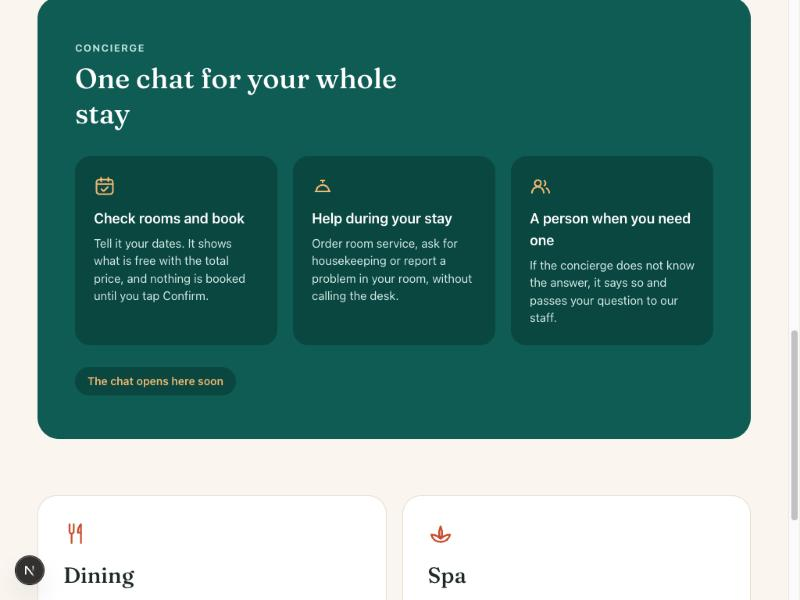
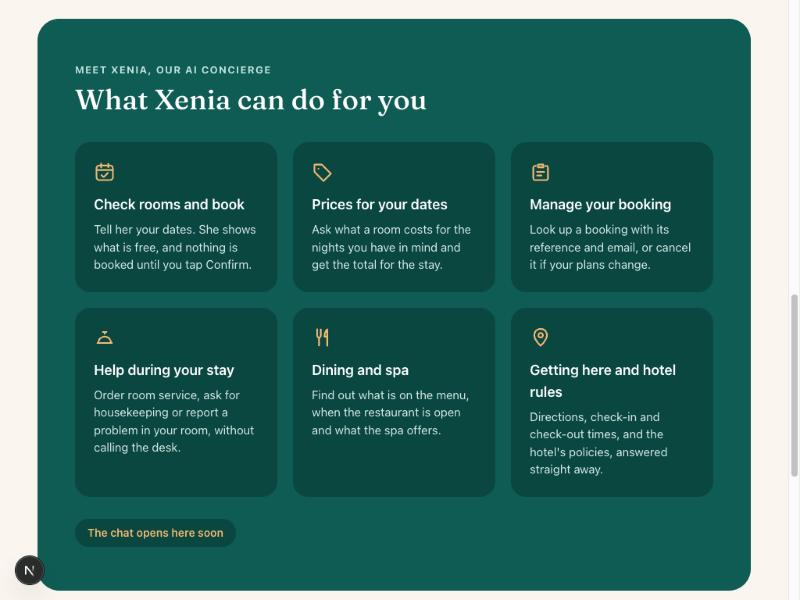
feat: remove prices from the site and list what Xenia can do (web-0005)

diff --git a/src/app/page.tsx b/src/app/page.tsx
@@ -5,7 +5,6 @@ const ROOMS = [
     name: "Garden Room",
     detail: "Queen bed and a private terrace among the palms.",
     tags: ["Sleeps 2", "Terrace", "Breakfast"],
-    price: 85,
     image: "/images/room-garden.jpg",
     alt: "White tables and chairs on a terrace in a tropical garden",
   },
@@ -13,7 +12,6 @@ const ROOMS = [
     name: "Sea View Deluxe",
     detail: "King bed and a balcony that looks over the bay.",
     tags: ["Sleeps 2", "Balcony", "Breakfast"],
-    price: 120,
     image: "/images/room-seaview.jpg",
     alt: "Open balcony doors looking out over the sea",
   },
@@ -21,7 +19,6 @@ const ROOMS = [
     name: "Family Suite",
     detail: "Two connected rooms with space for the whole family.",
     tags: ["Sleeps 4", "Two rooms", "Breakfast"],
-    price: 160,
     image: "/images/room-suite.jpg",
     alt: "A bright hotel bedroom with a large bed",
   },
@@ -30,8 +27,18 @@ const ROOMS = [
 const CONCIERGE = [
   {
     title: "Check rooms and book",
-    text: "Tell it your dates. It shows what is free with the total price, and nothing is booked until you tap Confirm.",
+    text: "Tell her your dates. She shows what is free, and nothing is booked until you tap Confirm.",
     icon: "M3 8a3 3 0 0 1 3-3h12a3 3 0 0 1 3 3v10a3 3 0 0 1-3 3H6a3 3 0 0 1-3-3zM3 10h18M8 3v4M16 3v4M8.5 15.5l2.3 2.3 4.7-4.7",
+  },
+  {
+    title: "Prices for your dates",
+    text: "Ask what a room costs for the nights you have in mind and get the total for the stay.",
+    icon: "M3 12V4h8l10 10-8 8zM7.5 8.5h.01",
+  },
+  {
+    title: "Manage your booking",
+    text: "Look up a booking with its reference and email, or cancel it if your plans change.",
+    icon: "M9 4h6v3H9zM7 5.5H5.5A1.5 1.5 0 0 0 4 7v12.5A1.5 1.5 0 0 0 5.5 21h13a1.5 1.5 0 0 0 1.5-1.5V7a1.5 1.5 0 0 0-1.5-1.5H17M8 12h8M8 16h5",
   },
   {
     title: "Help during your stay",
@@ -39,9 +46,14 @@ const CONCIERGE = [
     icon: "M4 18h16M5 18a7 7 0 0 1 14 0M12 8V6M10 6h4",
   },
   {
-    title: "A person when you need one",
-    text: "If Xenia does not know the answer, she says so and gets one of the team to help.",
-    icon: "M12.5 9a3.5 3.5 0 1 1-7 0 3.5 3.5 0 0 1 7 0zM2.5 19.5a6.5 6.5 0 0 1 13 0M16 6.2a3.5 3.5 0 0 1 0 5.6M18.5 14.5a6.5 6.5 0 0 1 3 5",
+    title: "Dining and spa",
+    text: "Find out what is on the menu, when the restaurant is open and what the spa offers.",
+    icon: "M6 3v7a2 2 0 0 0 4 0V3M8 12v9M17 3c-2 2-3 4.5-3 8h3zM17 11v10",
+  },
+  {
+    title: "Getting here and hotel rules",
+    text: "Directions, check-in and check-out times, and the hotel's policies, answered straight away.",
+    icon: "M12 21s7-6.2 7-11.5a7 7 0 1 0-14 0C5 14.8 12 21 12 21zM12 12a2.5 2.5 0 1 0 0-5 2.5 2.5 0 0 0 0 5z",
   },
 ];
 
@@ -95,7 +107,7 @@ export default function Home() {
             <h2 className={sectionTitleClass}>Three kinds of room</h2>
           </div>
           <p className="max-w-[40ch] text-muted">
-            Every room comes with breakfast. Prices are per night for the room.
+            Every room comes with breakfast. Ask Xenia for prices for your dates.
           </p>
         </div>
         <ul className="mt-7 grid gap-5 md:grid-cols-3">
@@ -114,10 +126,6 @@ export default function Home() {
                     </li>
                   ))}
                 </ul>
-                <p className="mt-auto pt-5 text-sm text-muted">
-                  <span aria-hidden="true" className="mb-4 block border-t border-line" />
-                  From <strong className="text-[22px] text-ink">${room.price}</strong> a night
-                </p>
               </div>
             </li>
           ))}
@@ -126,7 +134,7 @@ export default function Home() {
 
       <section id="concierge" className="mt-18 scroll-mt-6 rounded-[28px] bg-brand px-5 py-8 text-white sm:px-12 sm:py-14">
         <p className={`${eyebrowClass} text-[#BFE3DD]`}>Meet Xenia, our AI concierge</p>
-        <h2 className={`${sectionTitleClass} max-w-[20ch]`}>One chat for your whole stay</h2>
+        <h2 className={`${sectionTitleClass} max-w-[20ch]`}>What Xenia can do for you</h2>
         <ul className="mt-8 grid gap-5 md:grid-cols-3">
           {CONCIERGE.map((item) => (
             <li key={item.title} className="rounded-[20px] bg-[#0B4741] p-6">
